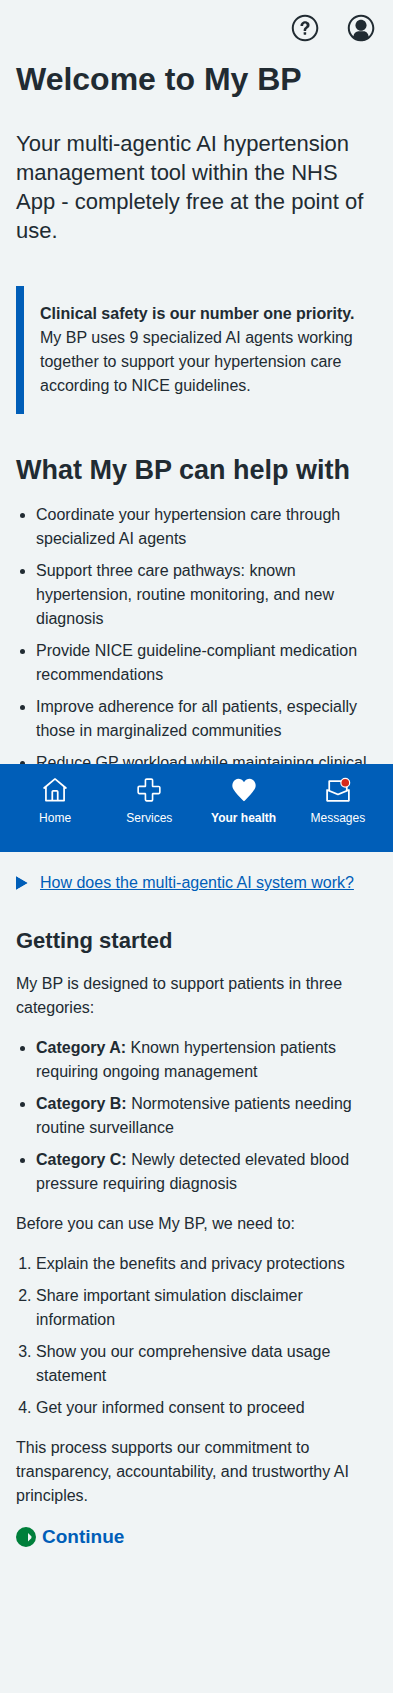
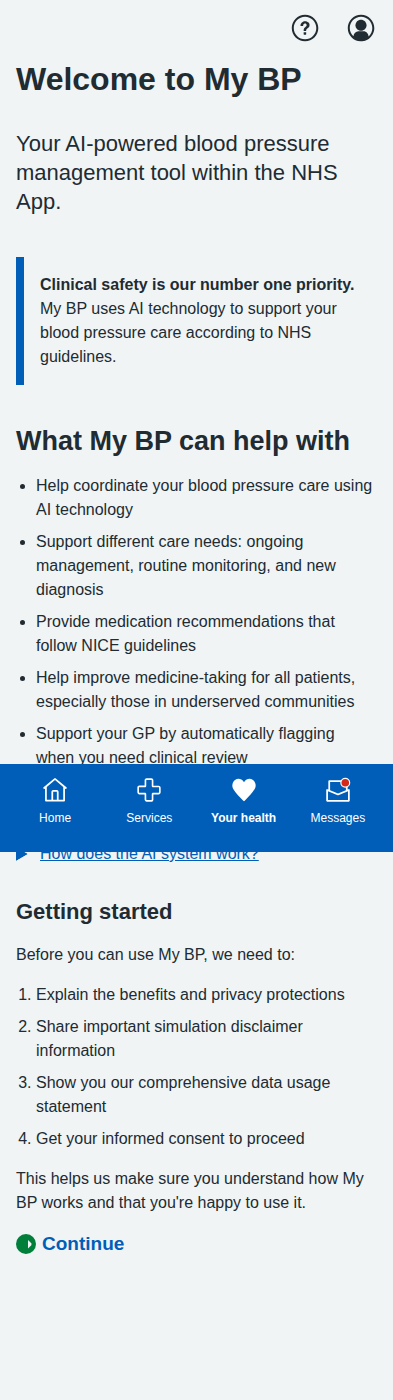
Update welcome page with patient-friendly language and remove jargon

diff --git a/prototype/v1/app/views/pages/mybp/onboarding/welcome.html b/prototype/v1/app/views/pages/mybp/onboarding/welcome.html
@@ -12,7 +12,7 @@
       </h1>
 
       <p class="nhsuk-lede-text">
-        Your AI-powered blood pressure management tool within the NHS App - completely free at the point of use.
+        Your AI-powered blood pressure management tool within the NHS App.
       </p>
 
       <div class="nhsuk-inset-text">
@@ -31,12 +31,12 @@
         </div>
         <div class="nhsuk-care-card__content">
           <ul class="nhsuk-list nhsuk-list--bullet">
-            <li>Coordinate your hypertension care through specialized AI agents</li>
-            <li>Support three care pathways: known hypertension, routine monitoring, and new diagnosis</li>
-            <li>Provide NICE guideline-compliant medication recommendations</li>
-            <li>Improve adherence for all patients, especially those in marginalized communities</li>
-            <li>Reduce GP workload while maintaining clinical safety through automatic escalation</li>
-            <li>Access community blood pressure monitoring and lifestyle support</li>
+            <li>Help coordinate your blood pressure care using AI technology</li>
+            <li>Support different care needs: ongoing management, routine monitoring, and new diagnosis</li>
+            <li>Provide medication recommendations that follow NICE guidelines</li>
+            <li>Help improve medicine-taking for all patients, especially those in underserved communities</li>
+            <li>Support your GP by automatically flagging when you need clinical review</li>
+            <li>Connect you with community blood pressure monitoring and lifestyle support</li>
           </ul>
         </div>
       </div>
@@ -65,14 +65,6 @@
 
       <h2 class="nhsuk-heading-m">Getting started</h2>
       
-      <p>My BP is designed to support patients in three categories:</p>
-      
-      <ul class="nhsuk-list nhsuk-list--bullet">
-        <li><strong>Category A:</strong> Known hypertension patients requiring ongoing management</li>
-        <li><strong>Category B:</strong> Normotensive patients needing routine surveillance</li>
-        <li><strong>Category C:</strong> Newly detected elevated blood pressure requiring diagnosis</li>
-      </ul>
-      
       <p>Before you can use My BP, we need to:</p>
       
       <ol class="nhsuk-list nhsuk-list--number">
@@ -82,7 +74,7 @@
         <li>Get your informed consent to proceed</li>
       </ol>
 
-      <p>This process supports our commitment to transparency, accountability, and trustworthy AI principles.</p>
+      <p>This helps us make sure you understand how My BP works and that you're happy to use it.</p>
 
       <div class="nhsuk-action-link">
         <a class="nhsuk-action-link__link" href="/pages/mybp/onboarding/benefits">
